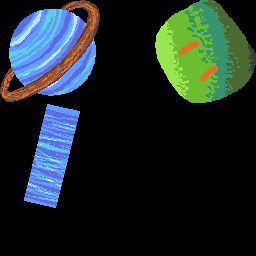
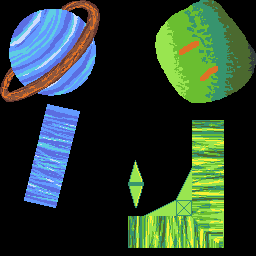
Build up a part for you to gain dash

Changed region(s): [[0.5, 0.4688, 0.875, 0.9688], [0.5, 0.625, 0.5625, 0.8125]]

diff --git a/built-to-scale/src/scenes/game.rs b/built-to-scale/src/scenes/game.rs
@@ -729,5 +729,6 @@ impl Terrain {
 fn convert_sprite(sprite: map::DynamicColliderImage) -> &'static Sprite {
     match sprite {
         map::DynamicColliderImage::SLIME_MOON => resources::SLIME_MOON.sprite(0),
+        map::DynamicColliderImage::PLATFORM_UP_RIGHT => resources::PLATFORM_UP_RIGHT.sprite(0),
     }
 }

diff --git a/built-to-scale/src/resources.rs b/built-to-scale/src/resources.rs
@@ -48,6 +48,7 @@ extract_statics!(
         DOUBLE_JUMP,
         DASH,
         SLIME_MOON,
+        PLATFORM_UP_RIGHT,
     ]
 );
 
